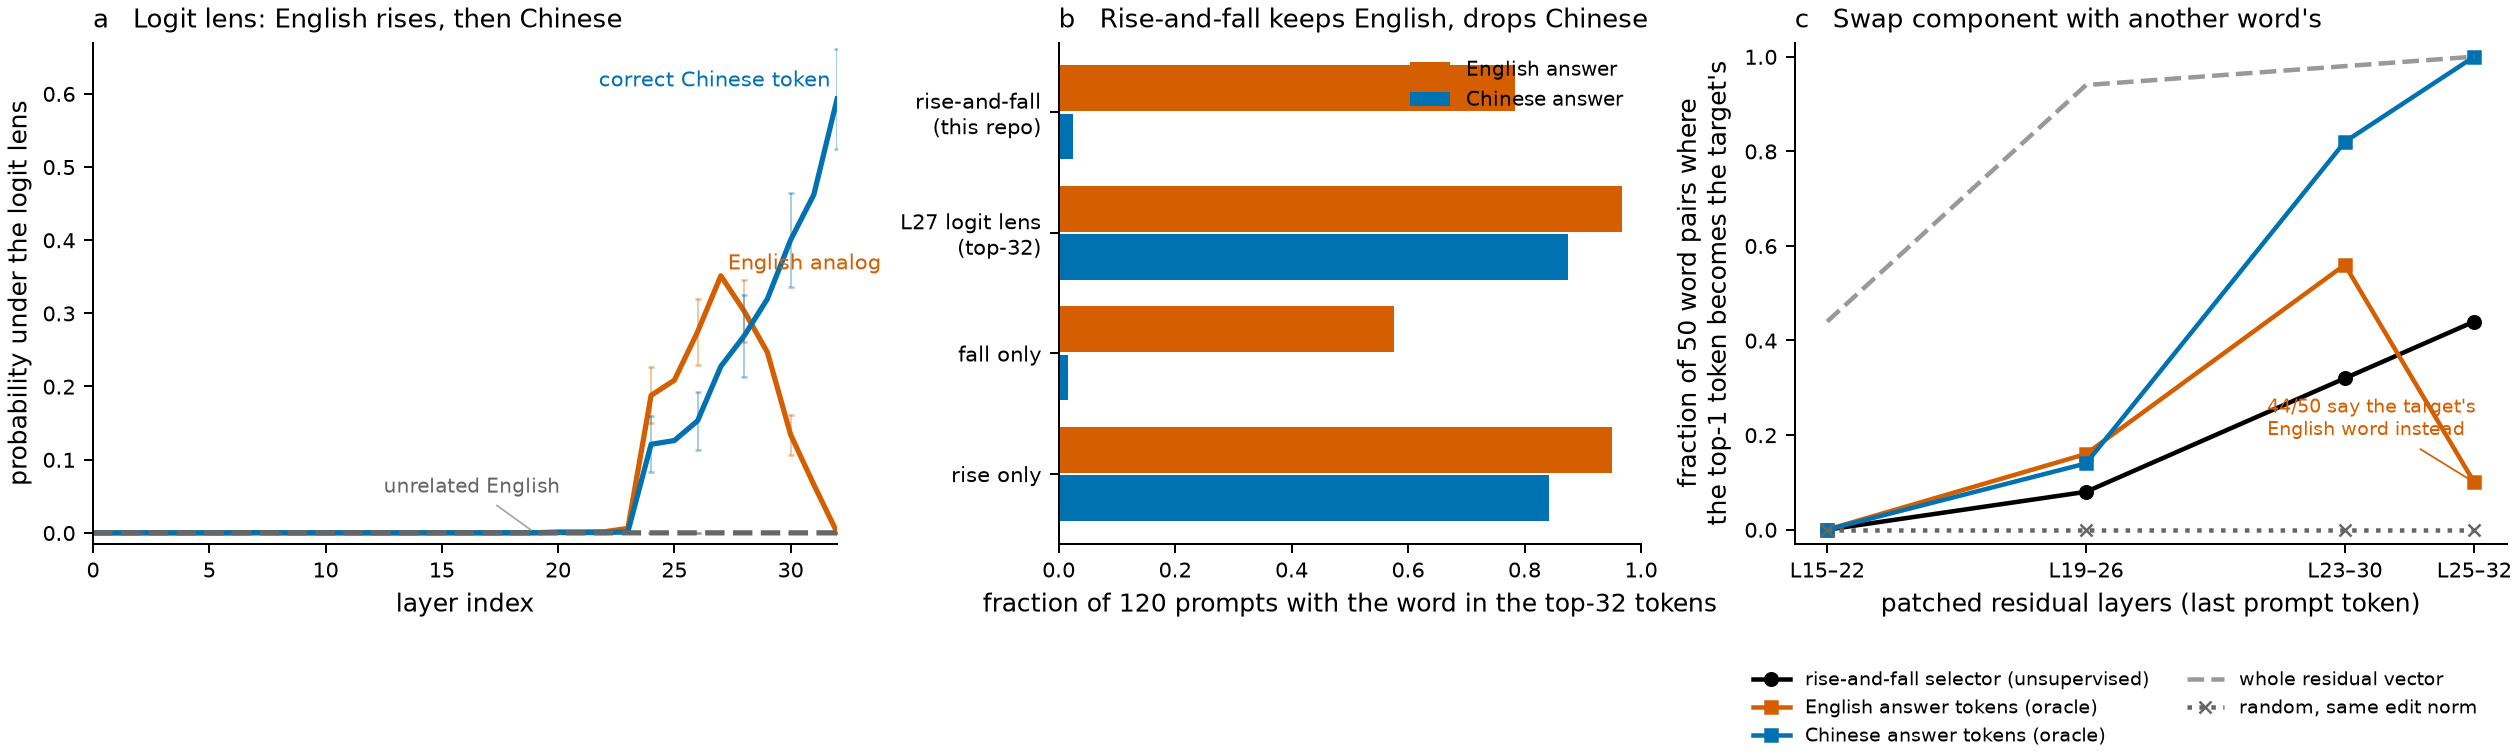
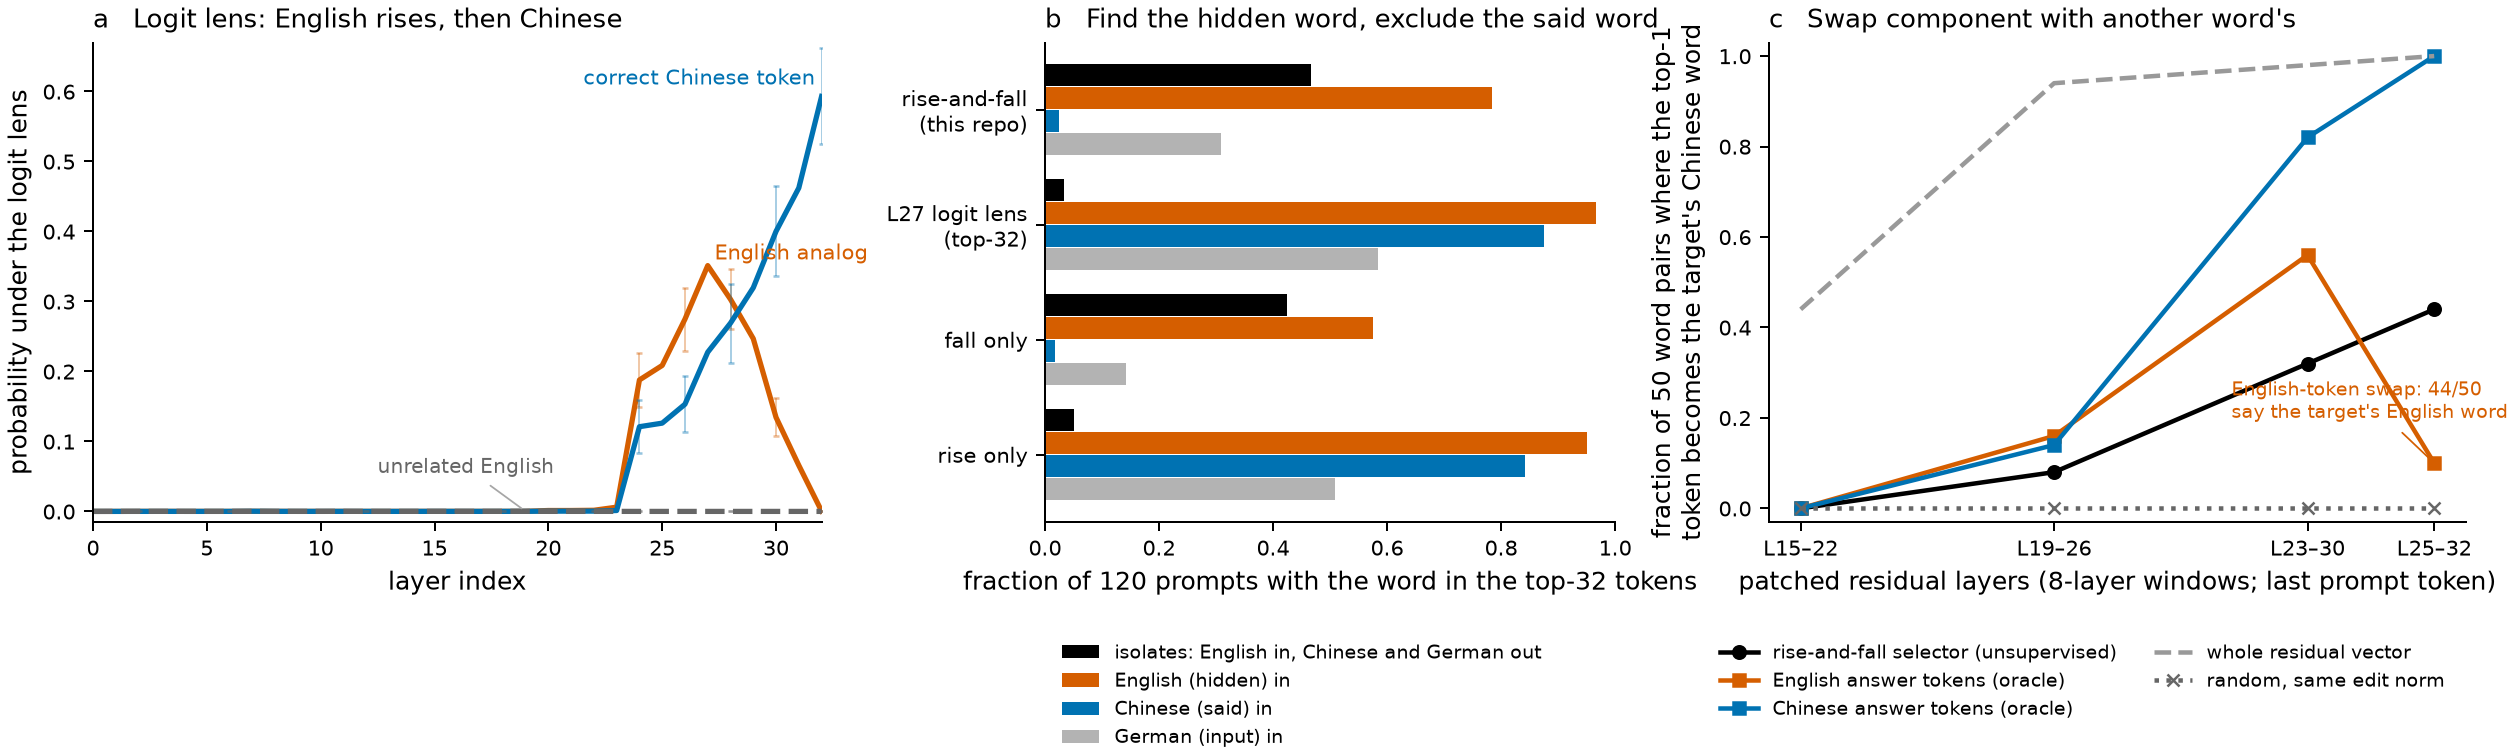
README/figure: exact readout eval — rise-and-fall isolates the hidden English word in 56/120 (plain lens 4/120); main error is selecting the German input word (37/120, real words, not prefix artefacts)

diff --git a/scripts/english/02_figure.py b/scripts/english/02_figure.py
@@ -39,10 +39,11 @@ def main() -> None:
     names = ["rise_and_fall (repo)", "peak logit lens", "fall only", "rise only"]
     labels = ["rise-and-fall\n(this repo)", "L27 logit lens\n(top-32)", "fall only", "rise only"]
     y = range(len(names))
-    ax.barh([i - 0.27 for i in y], [q1[k]["isolates"] / n for k in names], 0.26, color="black",
-            label="isolates: English in, Chinese and German out")
-    ax.barh([i for i in y], [q1[k]["en"] / n for k in names], 0.26, color=ENGLISH, label="English (hidden) in")
-    ax.barh([i + 0.27 for i in y], [q1[k]["zh"] / n for k in names], 0.26, color=CHINESE, label="Chinese (said) in")
+    bars = [("isolates", "black", "isolates: English in, Chinese and German out"),
+            ("en", ENGLISH, "English (hidden) in"), ("zh", CHINESE, "Chinese (said) in"),
+            ("de", "0.7", "German (input) in")]
+    for j, (key, colour, label) in enumerate(bars):
+        ax.barh([i + (j - 1.5) * 0.2 for i in y], [q1[k][key] / n for k in names], 0.19, color=colour, label=label)
     ax.set_yticks(list(y), labels, fontsize=8.5)
     ax.invert_yaxis()
     ax.set(xlim=(0, 1), xlabel=f"fraction of {n} prompts with the word in the top-32 tokens")
@@ -55,11 +56,11 @@ def main() -> None:
         ax.plot(starts, rate, style, color=colour, label=label, lw=1.8, ms=5)
     n_pairs = len(runs[23]["q2"]["rise_and_fall (repo)"])
     ax.set(ylim=(-0.03, 1.03), xticks=starts, xticklabels=[f"L{s}–{s + 7}" for s in starts],
-           xlabel="patched residual layers (last prompt token)",
-           ylabel=f"fraction of {n_pairs} word pairs where\nthe top-1 token becomes the target's")
+           xlabel="patched residual layers (8-layer windows; last prompt token)",
+           ylabel=f"fraction of {n_pairs} word pairs where the top-1\ntoken becomes the target's Chinese word")
     en_word = [sum(r["top1"].strip().lower() == p["tgt"]["en"].lower()
                    for p, r in zip(runs[s]["pairs"], runs[s]["q2"]["English answer tokens (oracle)"])) for s in starts]
-    ax.annotate(f"{en_word[-1]}/{n_pairs} say the target's\nEnglish word instead", xy=(starts[-1], 0.1),
+    ax.annotate(f"English-token swap: {en_word[-1]}/{n_pairs}\nsay the target's English word", xy=(starts[-1], 0.1),
                 xytext=(starts[-1] - 3.2, 0.2), fontsize=7.5, color=ENGLISH,
                 arrowprops={"arrowstyle": "-", "color": ENGLISH, "lw": 0.7})
     ax.legend(frameon=False, fontsize=7.5, loc="upper center", bbox_to_anchor=(0.45, -0.22), ncol=2)

diff --git a/scripts/scratch/german_hit_tokens.py b/scripts/scratch/german_hit_tokens.py
@@ -1,0 +1,45 @@
+"""Which tokens count as German/English hits for rise-and-fall? Checks short-prefix artefacts. -- Claudypoo[opus-4.8]"""
+
+import importlib.util
+import random
+import sys
+from collections import Counter
+from pathlib import Path
+
+import torch
+from transformers import AutoModelForCausalLM, AutoTokenizer
+
+ROOT = Path(__file__).resolve().parents[2]
+sys.path.insert(0, str(ROOT))
+spec = importlib.util.spec_from_file_location("q", ROOT / "scripts/english/01_detector_baselines_and_pair_transfer.py")
+q = importlib.util.module_from_spec(spec)
+sys.argv = sys.argv[:1]
+spec.loader.exec_module(q)
+
+torch.set_grad_enabled(False)
+tok = AutoTokenizer.from_pretrained(q.MODEL, revision=q.REVISION)
+model = AutoModelForCausalLM.from_pretrained(q.MODEL, revision=q.REVISION, dtype=torch.bfloat16).cuda().eval()
+W, g, final_norm = model.lm_head.weight, 1.0 + model.model.norm.weight, model.model.norm
+vocab_text = [tok.convert_tokens_to_string([t]) if t is not None else "" for t in tok.convert_ids_to_tokens(list(range(W.shape[0])))]
+words = q.load_words()
+rng = random.Random(0)
+de_hits, en_hits = Counter(), Counter()
+for strict in (3, 4):
+    counts = Counter()
+    rng = random.Random(0)
+    for i, w in enumerate(words):
+        shots = rng.sample([x for j, x in enumerate(words) if j != i], 4)
+        prompt = "".join(f'Deutsch: "{s["de"]}" - 中文: "{s["zh"]}"\n' for s in shots) + f'Deutsch: "{w["de"]}" - 中文: "'
+        res, _ = q.trajectory(model, tok(prompt, return_tensors="pt", add_special_tokens=False).input_ids.cuda(), final_norm)
+        score = q.selector_scores(res[:, -1], W, g)["rise_and_fall (repo)"]
+        top = [vocab_text[t] for t in score.topk(q.RANK_DETECT).indices.tolist()]
+        en = [t for t in top if q.is_prefix_hit(t, w["en"], strict)]
+        de = [t for t in top if q.is_prefix_hit(t, w["de"], strict) and not q.is_prefix_hit(t, w["en"], 3)]
+        zh = [t for t in top if q.is_prefix_hit(t, w["zh"], 1)]
+        counts["en"] += bool(en); counts["de"] += bool(de); counts["zh"] += bool(zh)
+        counts["isolates"] += bool(en) and not de and not zh
+        if strict == 3:
+            de_hits.update((w["de"], t) for t in de); en_hits.update((w["en"], t) for t in en)
+    print(f"min prefix chars {strict}: {dict(counts)} of {len(words)}")
+print("German hits (word, token):", de_hits.most_common(40))
+print("English hits sample:", en_hits.most_common(25))

diff --git a/README.md b/README.md
@@ -21,7 +21,7 @@ the Chinese word?
 
 | claim | status |
 |---|---|
-| **Readout:** find the hidden word, exclude the said word | Works on the translation eval: at least 91 of 120 prompts. The plain logit lens: at most 15 of 120. |
+| **Readout:** find the hidden word, exclude the said word | Partly works on the translation eval: 56 of 120 prompts isolate the English word (plain logit lens: 4 of 120). The main error is selecting the German input word (37 of 120). |
 | **Editing:** replacing the found component changes the answer | Secondary. Unsupervised rank-8 swap: 16 of 50 word pairs (random edit: 0 of 50). |
 | **Generalisation:** the same frozen method on all-English tasks | Not tested on a fixed set yet. One example: the spider prompt readout contains `Spider`. |
 
@@ -80,26 +80,30 @@ per prompt and needs one unmodified forward pass through the output layer.
 
 ## Does it find the hidden word and exclude the said word?
 
-![Three panels for Qwen3.5-4B German-to-Chinese translation. a: logit-lens probability of the English word rises at layers 24 to 27 and falls by layer 32, while the Chinese word rises to about 0.6 at layer 32. b: per selector, the fraction of 120 prompts where the top-32 tokens contain the English word but not the Chinese or German word; rise-and-fall is highest. c: fraction of 50 word pairs where swapping a component at the last prompt token makes the model output the other word's Chinese translation, by patched layer window; random edits stay at zero](figs/english_setting.png)
+![Three panels for Qwen3.5-4B German-to-Chinese translation. a: logit-lens probability of the English word rises at layers 24 to 27 and falls by layer 32, while the Chinese word rises to about 0.6 at layer 32. b: per selector, the fraction of 120 prompts whose top-32 tokens contain the English word, the Chinese word, the German word, and the English word without the other two; rise-and-fall has the highest isolation, about 0.47, and the logit lens includes Chinese in most prompts. c: fraction of 50 word pairs where swapping a component at the last prompt token makes the model output the other word's Chinese translation, by patched layer window; random edits stay at zero](figs/english_setting.png)
 
 *Qwen3.5-4B, 120 German-to-Chinese word prompts in the Wendler et al. 4-shot format.
-Layers: early 22, peak 27, output 32. Panel c is the next section.*
+Layers: early 22, peak 27, output 32. Panel c is the next section; its layer windows overlap.*
 
 "Isolates" means the top-32 tokens contain the English word, and contain neither the
 Chinese word (said) nor the German word (input). AUROC ranks the whole vocabulary within
 one prompt: the probability that an English-word token scores above a Chinese-word token.
 
-| selector (top-32 tokens) | isolates hidden word (bound from the two counts, before the German check) | English in | Chinese in |
-|---|---:|---:|---:|
-| rise-and-fall (this method) | **≥ 91/120** | 94/120 | 3/120 |
-| plain logit lens at L27 | ≤ 15/120 | 116/120 | 105/120 |
-| fall only | ≥ 67/120 | 69/120 | 2/120 |
-| rise only | ≤ 19/120 | 114/120 | 101/120 |
-
-<!-- TODO(Claudypoo): replace the bounds with exact counts, German exclusion, and within-prompt AUROC from pueue job 2421. -->
+| selector (top-32 tokens) | isolates hidden word | English (hidden) in | Chinese (said) in | German (input) in | median AUROC, English vs Chinese tokens |
+|---|---:|---:|---:|---:|---:|
+| rise-and-fall (this method) | **56/120** | 94/120 | 3/120 | 37/120 | 0.82 |
+| fall only | 51/120 | 69/120 | 2/120 | 17/120 | 1.00 |
+| plain logit lens at L27 | 4/120 | 116/120 | 105/120 | 70/120 | 0.09 |
+| rise only | 6/120 | 114/120 | 101/120 | 61/120 | 0.11 |
 
 The plain logit lens finds English in 116 of 120 prompts, but it also finds the Chinese
 word in 105. In an all-English setting it would return the said word with the thought.
+Rise-and-fall excludes the said word well, but in 37 of 120 prompts it also selects the
+German input word (for example ` Herz`, ` Holz`, ` Licht`). Those are real German words,
+not short-prefix matches: requiring 4 matching characters gives 60 of 120 isolated. So the
+method finds words that are *read or thought but not said*, and the input is one of them.
+Evidence: [`out/2026-09-29_070913_english-baselines-L23/run.md`](out/2026-09-29_070913_english-baselines-L23/run.md)
+and [`scripts/scratch/german_hit_tokens.py`](scripts/scratch/german_hit_tokens.py).
 
 <details>
 <summary>Why the earlier "95% of English inside the subspace" figure was dropped</summary>
@@ -144,7 +148,7 @@ English word was in both rank-8 selections and 5 of 34 otherwise. At no tested l
 window was the English direction a better handle than the Chinese direction (panel c).
 At layers 25 to 32 the English-token swap makes the model say the target's English word
 (44 of 50). Evidence:
-[`out/2026-09-29_064035_english-baselines-L23/run.md`](out/2026-09-29_064035_english-baselines-L23/run.md).
+[`out/2026-09-29_070913_english-baselines-L23/run.md`](out/2026-09-29_070913_english-baselines-L23/run.md).
 
 In [Gurnee et al. 2026](https://transformer-circuits.pub/2026/workspace/), swaps use
 Jacobian-lens directions at all token positions and flip 54–70% of 50 two-hop prompts. They

diff --git a/out/2026-09-29_070913_english-baselines-L23/run.md b/out/2026-09-29_070913_english-baselines-L23/run.md
@@ -14,13 +14,13 @@ n_pairs: 50
 
 English hit = a selected token is a >=3-char prefix of the English word. Chinese hit = a selected token is a prefix of the Chinese word.
 
-| selector (top-32 tokens)   | English answer in set   | Chinese answer in set   |
-|:---------------------------|:------------------------|:------------------------|
-| rise_and_fall (repo)       | 94/120                  | 3/120                   |
-| peak logit lens            | 116/120                 | 105/120                 |
-| fall only                  | 69/120                  | 2/120                   |
-| rise only                  | 114/120                 | 101/120                 |
-| output logits (sanity)     | 67/120                  | 118/120                 |
+| selector (top-32 tokens)   | isolates hidden word   | English in   | Chinese in   | German in   |   median AUROC EN vs ZH |   median AUROC EN vs vocab |
+|:---------------------------|:-----------------------|:-------------|:-------------|:------------|------------------------:|---------------------------:|
+| rise_and_fall (repo)       | **56/120**             | 94/120       | 3/120        | 37/120      |                    0.82 |                      0.84  |
+| peak logit lens            | **4/120**              | 116/120      | 105/120      | 70/120      |                    0.09 |                      0.998 |
+| fall only                  | **51/120**             | 69/120       | 2/120        | 17/120      |                    1    |                      0.751 |
+| rise only                  | **6/120**              | 114/120      | 101/120      | 61/120      |                    0.11 |                      0.997 |
+| output logits (sanity)     | **0/120**              | 67/120       | 118/120      | 1/120       |                    0    |                      0.98  |
 
 rise_and_fall top-8 examples: [{"word": {"en": "book", "de": "Buch", "zh": "书"}, "top8": [" book", " books", " BOOK", " booking", " Book", ".books", " Volume", " Booking"]}, {"word": {"en": "cloud", "de": "Wolke", "zh": "云"}, "top8": [" cloud", " clouds", " Cloud", "_cloud", "-cloud", "/cloud", " обла", "cloud"]}, {"word": {"en": "bag", "de": "Tasche", "zh": "包"}, "top8": [" bag", " port", " sac", " Cases", " cases", " case", " ang", "-facing"]}]
 
